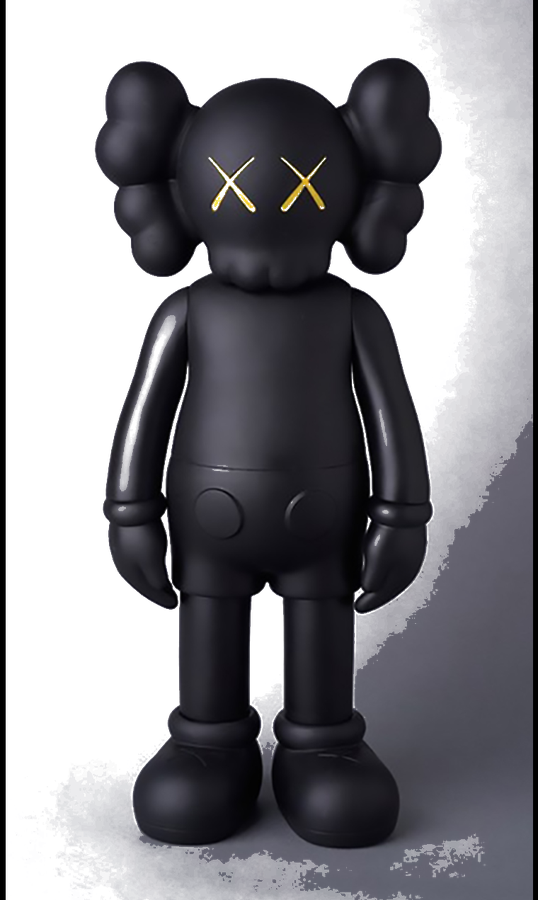
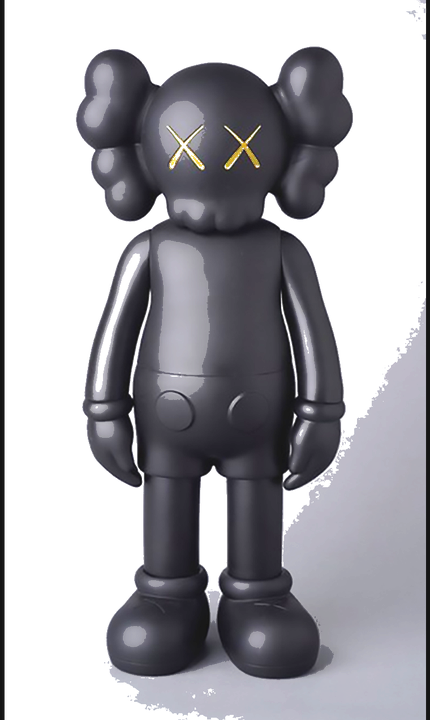
Add KAWS peek easter egg

diff --git a/styles.css b/styles.css
@@ -278,23 +278,12 @@ footer small {
   font-size: 10px;
   letter-spacing: .08em;
 }
-.kaws-peek {
+.sound-player {
   position: fixed;
-  left: max(8px, env(safe-area-inset-left));
-  bottom: 0;
-  z-index: 18;
-  width: 104px;
-  height: 126px;
-  overflow: hidden;
-  pointer-events: none;
+  z-index: 120;
+  right: max(16px, env(safe-area-inset-right));
+  bottom: max(16px, env(safe-area-inset-bottom));
 }
-.kaws-peek img {
-  width: 104px;
-  height: auto;
-  transform: translateY(30%);
-  filter: drop-shadow(0 10px 18px rgba(0,0,0,.55));
-}
-body.menu-open .kaws-peek { visibility: hidden; }
 .sound-shell {
   position: relative;
   display: flex;
@@ -756,8 +745,6 @@ body.menu-open .kaws-peek { visibility: hidden; }
 .ghost-cta[aria-disabled="true"] { opacity: .55; pointer-events: none; }
 @media (max-width: 760px) {
   .sound-player { right: 12px; bottom: 12px; }
-  .kaws-peek { width: 78px; height: 96px; }
-  .kaws-peek img { width: 78px; }
   .sound-player[data-open="true"] .sound-shell { max-width: min(456px, calc(100vw - 24px)); }
 }
 

diff --git a/index.html b/index.html
@@ -21,6 +21,7 @@
   <title>Wendell Rowe — Operations. Scale. Legacy.</title>
   <link rel="icon" href="assets/favicon.svg" type="image/svg+xml" />
   <link rel="stylesheet" href="styles.css" />
+  <link rel="stylesheet" href="kaws.css" />
   <script type="application/ld+json">
   {
     "@context": "https://schema.org",
